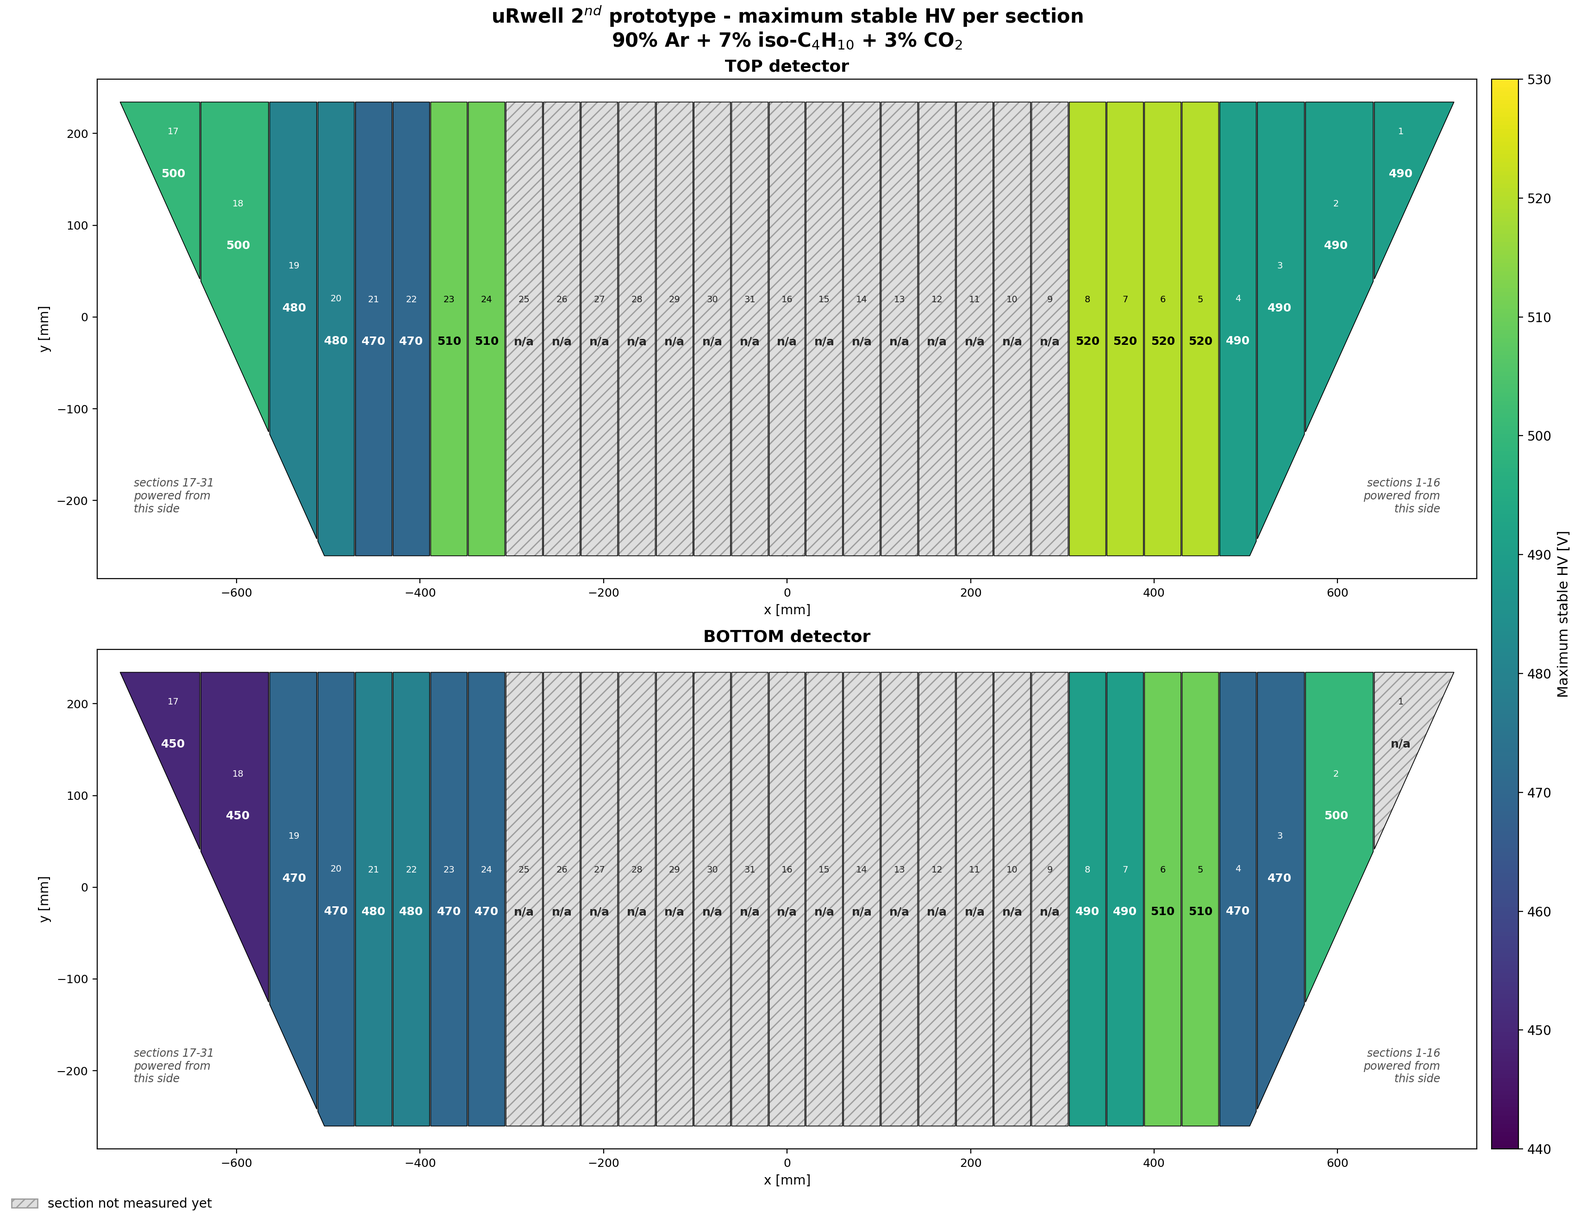
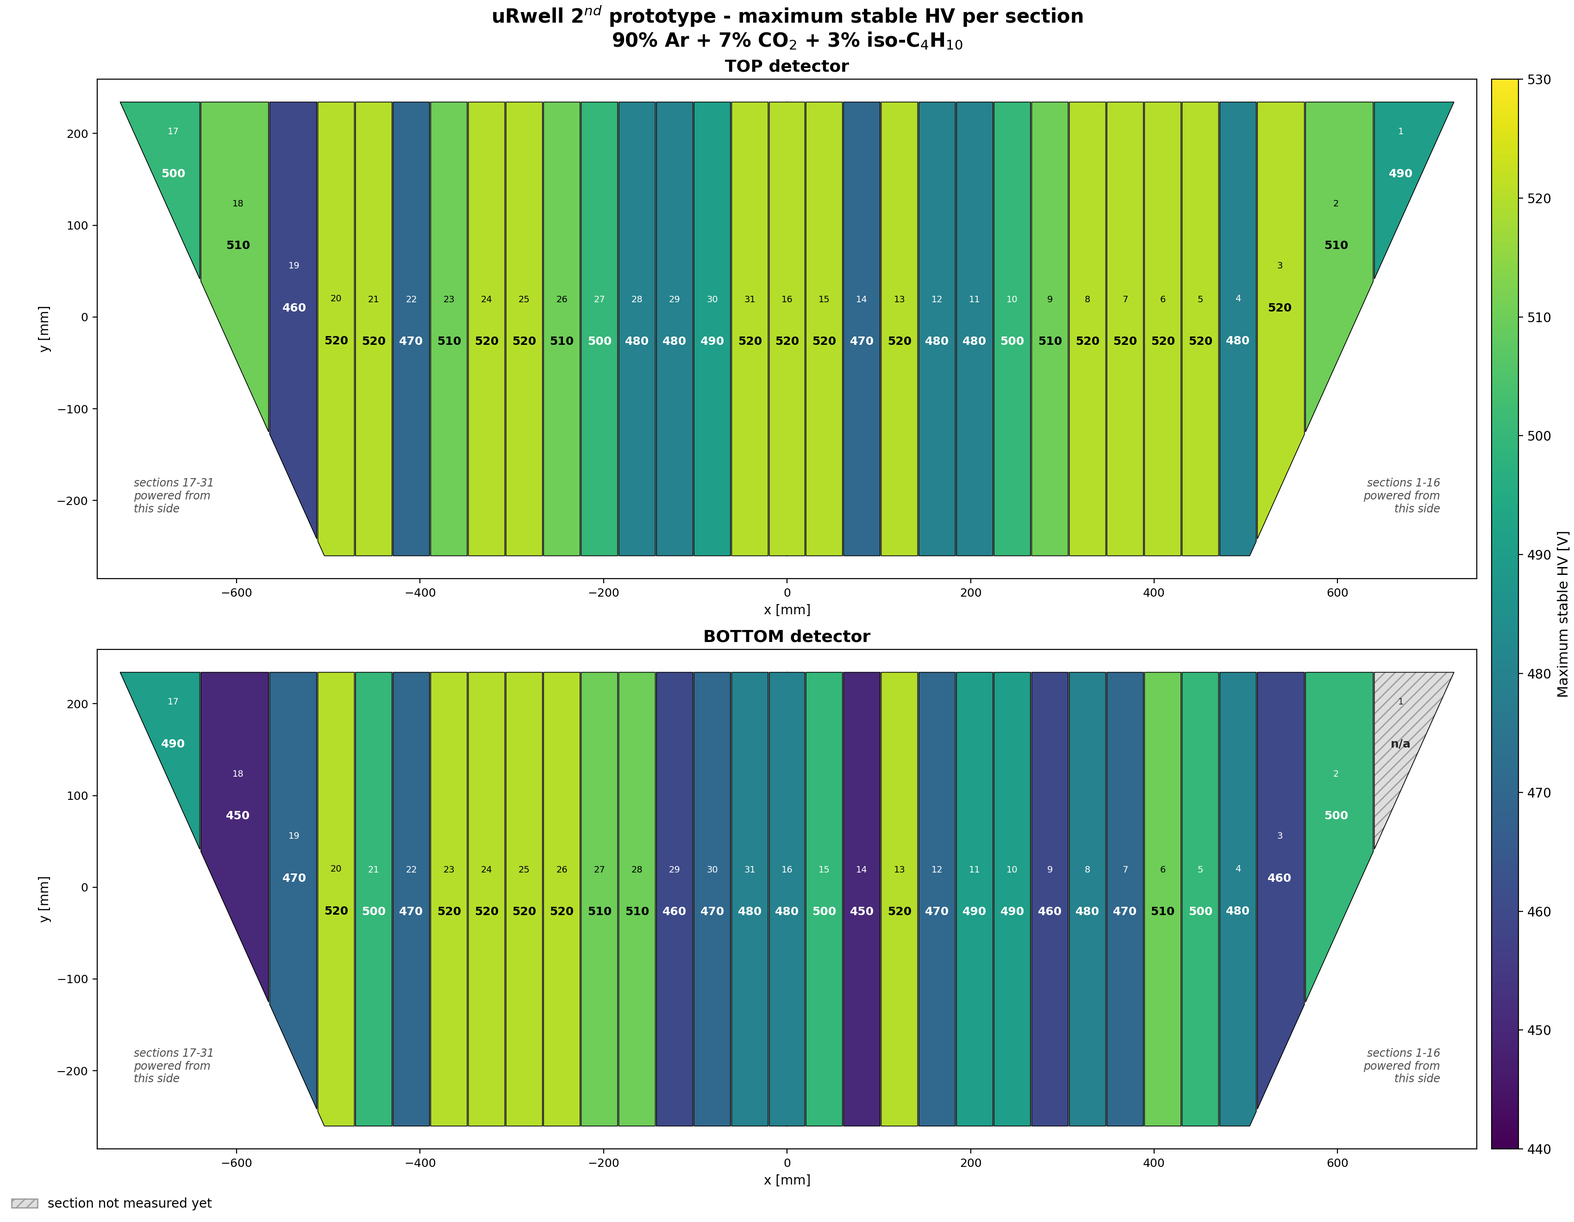
Add new UHP N2 HV section settings, trip limit column and --delta option
- TOP/BOT_HV_Sections_UHPN2.dat: new max stable HV values from the latest
  single-section settings, all N2 sections are now measured except BOTTOM 1.
  New optional third column with the HV trip limit (10 or 15 uA) each section
  was measured with.
- plot_HV_sections.py: read the trip limit and mark every section measured with
  a lower trip limit than the highest one of that gas with a small red 'x'
  (its value is only a lower limit).  New --delta option gives every gas a
  color scale of the same width so that colors can be compared between gases.
- README.md, CLAUDE.md: document the trip limit column and --delta, and update
  the status: N2 TOP 660-680 V, BOTTOM 640-680 V; still only with 10 uA are
  TOP 10, 18, 21, 22, 26 and BOTTOM 2, 24, 26.
- Doc/HVSection_MaxStableHV.png: refreshed snapshot of the Ar mixture figure.

diff --git a/misc/HV_Section_Quality/plot_HV_sections.py b/misc/HV_Section_Quality/plot_HV_sections.py
@@ -8,19 +8,30 @@ The measurements are done separately for every gas.  For each gas the maximum
 stable HV is read from two column wise text files, one for the TOP and one for
 the BOTTOM detector, named TOP_HV_Sections_<gas>.dat and BOT_HV_Sections_<gas>.dat:
 
-    # SECTION   MAX_STABLE_HV [V]
-    1           490
+    # SECTION   MAX_STABLE_HV [V]   TRIP_LIMIT [uA]
+    1           490                 15
     ...
-    9           -1        <-- negative value = section not measured yet
+    9           -1                        <-- negative value = section not measured yet
+
+The third column, the HV trip limit the section was measured with, is optional.
+A section measured with a lower trip limit than the highest one used for that gas
+may have tripped below what it can really hold, it gets a small red 'x'.
 
 The known gases are listed in GASES below, a new gas needs one more line there.
 Without --gas every gas whose two files exist is drawn, one figure per gas.  The
 figures are written into the 'Figs' sub directory, which is created if it does
 not exist yet, as HV_Section_MaxStableHV_<gas>.png/.pdf.
 
+Every gas gets its own color scale, by default from its lowest HV - 10 V up to its
+highest HV + 10 V.  With --delta the scale of every gas has the same width instead,
+from its highest HV down to highest HV - DELTA, so the colors of different gases can
+be compared.  --delta without a value takes the widest range of all gases.
+
 Usage:
     ./plot_HV_sections.py                                # all gases
     ./plot_HV_sections.py --gas UHPN2                    # only one gas
+    ./plot_HV_sections.py --delta                        # same color scale width for all gases
+    ./plot_HV_sections.py --delta 100                    # ... with a given width [V]
     ./plot_HV_sections.py --gas 90Ar_7CO2_3Iso --cmap RdYlGn --vmin 440 --vmax 530
 """
 
@@ -67,8 +78,10 @@ def read_geometry(fname):
 
 
 def read_hv(fname):
-    """Read 'section  max_stable_HV' pairs, negative HV means 'not measured'."""
-    hv = {}
+    """Read 'section  max_stable_HV  [trip_limit]' lines, negative HV means 'not
+    measured'.  Returns the HV and the trip limit dicts, the latter only holds the
+    sections for which the (optional) trip limit is given."""
+    hv, trip = {}, {}
     with open(fname) as f:
         for line in f:
             line = line.split("#")[0].strip()
@@ -76,12 +89,19 @@ def read_hv(fname):
                 continue
             w = line.split()
             hv[int(w[0])] = float(w[1])
-    return hv
+            if len(w) > 2:
+                trip[int(w[0])] = float(w[2])
+    return hv, trip
 
 
 def hv_files(gas):
     """The TOP and BOTTOM measurement files of the given gas."""
     return "TOP_HV_Sections_%s.dat" % gas, "BOT_HV_Sections_%s.dat" % gas
+
+
+def measured_hv(gas):
+    """All measured HV values of the given gas, TOP and BOTTOM together."""
+    return [v for f in hv_files(gas) for v in read_hv(f)[0].values() if v > 0.]
 
 
 # ----------------------------------------------------------------- small helpers
@@ -103,8 +123,18 @@ def text_color(rgba):
     return "black" if (0.299 * r + 0.587 * g + 0.114 * b) > 0.55 else "white"
 
 
+def delta_value(s):
+    """Value of --delta: 'auto' or a positive width of the color scale in V."""
+    if s == "auto":
+        return s
+    d = float(s)
+    if d <= 0.:
+        raise argparse.ArgumentTypeError("must be positive, got %s" % s)
+    return d
+
+
 # ------------------------------------------------------------------- the drawing
-def draw_detector(ax, sections, hv, cmap, norm, title, mirror=False):
+def draw_detector(ax, sections, hv, cmap, norm, title, mirror=False, low_trip=()):
     allx = np.concatenate([p[:, 0] for p in sections.values()])
     ally = np.concatenate([p[:, 1] for p in sections.values()])
     xlo, xhi, ylo, yhi = allx.min(), allx.max(), ally.min(), ally.max()
@@ -134,6 +164,14 @@ def draw_detector(ax, sections, hv, cmap, norm, title, mirror=False):
                 ha="center", va="center", fontsize=9., fontweight="bold",
                 color=tcol, zorder=3)
 
+        # measured with a low trip limit -> small red 'x' at the top of the section,
+        # centered on its top edge (the outer sections are clipped triangles)
+        if measured and n in low_trip:
+            ytop = poly[:, 1].max()
+            xtop = poly[poly[:, 1] > ytop - 1., 0]
+            ax.plot(0.5 * (xtop.min() + xtop.max()), ytop - 25., "x", color="red",
+                    markersize=8., markeredgewidth=2., zorder=3)
+
     # the bottom corners of the trapezoid are empty -> remind the reader there
     # on which side of the detector the sections are powered
     left, right = ("1-16", "17-31") if mirror else ("17-31", "1-16")
@@ -154,7 +192,7 @@ def draw_detector(ax, sections, hv, cmap, norm, title, mirror=False):
 def plot_gas(gas, sections, cmap, args):
     """One figure with both detectors, measured with the given gas."""
     top_file, bot_file = hv_files(gas)
-    hv_top, hv_bot = read_hv(top_file), read_hv(bot_file)
+    (hv_top, trip_top), (hv_bot, trip_bot) = read_hv(top_file), read_hv(bot_file)
 
     measured = [v for v in list(hv_top.values()) + list(hv_bot.values()) if v > 0.]
     if not measured:
@@ -162,16 +200,27 @@ def plot_gas(gas, sections, cmap, args):
         return
 
     # one common color scale for both detectors, so that they can be compared.
-    # Different gases need very different voltages, every gas gets its own scale
-    vmin = args.vmin if args.vmin is not None else min(measured) - 10.
-    vmax = args.vmax if args.vmax is not None else max(measured) + 10.
+    # Different gases need very different voltages, every gas gets its own scale,
+    # with --delta all of them have the same width, from their maximum HV downwards
+    if args.delta is not None:
+        vmax = max(measured)
+        vmin = vmax - args.delta
+    else:
+        vmin = args.vmin if args.vmin is not None else min(measured) - 10.
+        vmax = args.vmax if args.vmax is not None else max(measured) + 10.
     norm = Normalize(vmin=vmin, vmax=vmax)
+
+    # a section measured with a lower trip limit than the highest one used for this
+    # gas may have tripped before reaching the HV it can really hold
+    max_trip = max(list(trip_top.values()) + list(trip_bot.values()), default=0.)
+    low_top = sorted(n for n, t in trip_top.items() if t < max_trip and hv_top[n] > 0.)
+    low_bot = sorted(n for n, t in trip_bot.items() if t < max_trip and hv_bot[n] > 0.)
 
     # the active area is 1453 x 495 mm^2, keep the true aspect ratio of the
     # detector and size the canvas such that no space is wasted
     fig, axes = plt.subplots(2, 1, figsize=(17., 13.2), layout="constrained")
-    draw_detector(axes[0], sections, hv_top, cmap, norm, "TOP detector", args.mirror)
-    draw_detector(axes[1], sections, hv_bot, cmap, norm, "BOTTOM detector", args.mirror)
+    draw_detector(axes[0], sections, hv_top, cmap, norm, "TOP detector", args.mirror, low_top)
+    draw_detector(axes[1], sections, hv_bot, cmap, norm, "BOTTOM detector", args.mirror, low_bot)
 
     fig.suptitle("uRwell 2$^{nd}$ prototype - maximum stable HV per section\n%s"
                  % GASES[gas], fontsize=15, fontweight="bold")
@@ -197,6 +246,9 @@ def plot_gas(gas, sections, cmap, args):
     n_bot = sum(1 for v in hv_bot.values() if v > 0.)
     print("%s: measured sections TOP %d/31, BOTTOM %d/31   (color scale %.0f - %.0f V)"
           % (gas, n_top, n_bot, vmin, vmax))
+    if low_top or low_bot:
+        print("%s: measured with a trip limit below %g uA (red 'x'): TOP %s, BOTTOM %s"
+              % (gas, max_trip, low_top or "-", low_bot or "-"))
 
 
 def main():
@@ -214,10 +266,19 @@ def main():
                     help="lower end of the color scale [V], applies to every gas drawn")
     ap.add_argument("--vmax", type=float, default=None,
                     help="upper end of the color scale [V], applies to every gas drawn")
+    ap.add_argument("--delta", nargs="?", const="auto", default=None, type=delta_value,
+                    metavar="DELTA",
+                    help="same width of the color scale [V] for every gas, from the "
+                         "maximum HV of the gas down to maximum - DELTA.  Without a "
+                         "value the widest range (max - min + 10 V) of all gases is "
+                         "used, so that no gas gets clipped")
     ap.add_argument("--mirror", action="store_true",
                     help="mirror the detector in x, i.e. draw section 1 on the left "
                          "(use it if you look at the chamber from the other side)")
     args = ap.parse_args()
+
+    if args.delta is not None and (args.vmin is not None or args.vmax is not None):
+        ap.error("--delta can not be combined with --vmin/--vmax")
 
     if not os.path.exists(args.geometry):
         sys.exit("ERROR: can not find '%s'" % args.geometry)
@@ -236,6 +297,18 @@ def main():
     if not gases:
         sys.exit("ERROR: no measurement files found for any of the gases %s"
                  % ", ".join(GASES))
+
+    # --delta without a value: the widest range of all gases with measurements, drawn
+    # or not, so that a figure does not depend on which other gases are drawn
+    if args.delta == "auto":
+        ranges = []
+        for gas in GASES:
+            if all(os.path.exists(f) for f in hv_files(gas)):
+                values = measured_hv(gas)
+                if values:
+                    ranges.append(max(values) - min(values) + 10.)
+        args.delta = max(ranges, default=10.)
+        print("Same color scale width for every gas: %.0f V" % args.delta)
 
     sections = read_geometry(args.geometry)
     if args.mirror:

diff --git a/misc/HV_Section_Quality/CLAUDE.md b/misc/HV_Section_Quality/CLAUDE.md
@@ -13,8 +13,8 @@ two in sync when something here changes.
 
 | file | what it is |
 |------|------------|
-| `TOP_HV_Sections_<gas>.dat` | measured max stable HV, TOP detector, one file per gas |
-| `BOT_HV_Sections_<gas>.dat` | measured max stable HV, BOTTOM detector, one file per gas |
+| `TOP_HV_Sections_<gas>.dat` | measured max stable HV (+ trip limit), TOP detector, one file per gas |
+| `BOT_HV_Sections_<gas>.dat` | measured max stable HV (+ trip limit), BOTTOM detector, one file per gas |
 | `uRwell_HV_section_geometry.dat` | polygons of the 31 sections, generated (see below) |
 | `extract_section_geometry.py` | CAD (DXF) -> `uRwell_HV_section_geometry.dat` |
 | `plot_HV_sections.py` | the plot: both detectors, color coded by max stable HV, one figure per gas |
@@ -41,8 +41,16 @@ added to the `install(FILES ...)` list in `CMakeLists.txt`.
   which had the CO2 and iso fractions swapped in the name), and a glob would
   silently plot them as an extra gas.
 * TOP and BOTTOM share one color scale, but every gas gets its own: N2 needs
-  ~150 V more than the Ar mixture, a common scale would flatten both.
+  ~150 V more than the Ar mixture, a common scale would flatten both.  By default
+  it runs from the lowest HV - 10 V to the highest HV + 10 V of the gas.
   `--vmin`/`--vmax` apply to every gas drawn, so use them together with `--gas`.
+* `--delta DELTA` gives every gas a scale of the same width instead, so that the
+  colors of different gases can be compared: from the highest HV of the gas (no
+  +10 V margin, the highest sections get the top color) down to highest - DELTA.
+  `--delta` without a value takes the widest range (highest - lowest + 10 V) of all
+  gases that have files, drawn or not, so no gas is clipped and a figure does not
+  depend on `--gas` (80 V as of 2026-10-28, set by the Ar mixture).  It can not be
+  combined with `--vmin`/`--vmax`.
 
 ## Where things are edited (easy to trip over)
 
@@ -65,15 +73,49 @@ refreshed by hand when the measurements change:
 
 ## Data file format
 
-Two whitespace separated columns, `#` starts a comment (also at the end of a line,
+Whitespace separated columns, `#` starts a comment (also at the end of a line,
 which is used to record observations about individual sections):
 
 ```
-# SECTION	MAX_STABLE_HV [V]
-1		490
-9		-1     <- negative = not measured yet, drawn hatched as 'n/a'
-20		470  # held 510 for ~30 min, later did not hold 480 for long
+# SECTION	MAX_STABLE_HV [V]	TRIP_LIMIT [uA]
+1		490		15
+9		-1             <- negative = not measured yet, drawn hatched as 'n/a'
+20		470		10  # held 510 for ~30 min, later did not hold 480 for long
 ```
+
+The third column, the HV trip limit the section was measured with, is optional (the
+Ar files do not have it, a not measured section leaves it empty).
+
+## HV trip limit (red 'x')
+
+During the N2 scan the trip limit was raised from 10 uA to 15 uA on 2026-09-25, the
+first setting with 15 uA is setting #6.  With 10 uA a section can trip below the HV
+it could hold, so its value is only a lower limit.  `plot_HV_sections.py` puts a
+small red 'x' at the top of every measured section whose trip limit is lower than
+the highest one in the two files of that gas (no legend entry, deliberately).
+
+Which section had which limit comes from the lab log `EEL_Runs.xlsx` (not in git),
+tab "HV settings " (with a trailing space), N2 block from row 29 on:
+
+* Settings #1-#5 (rows 30-34, 10 uA) measured pairs: TOP 1-10 and 17-26, BOTTOM
+  2-10 and 17-26.
+* From setting #9 (row 38) sections are measured one by one, all with 15 uA.  A
+  section of a 10 uA pair that was re-measured there is 15 uA, its partner stays
+  10 uA unless it was re-measured too (e.g. BOTTOM 3 & 4: 640 V in #2, then BOTTOM 3
+  alone 670 V in #10 -> 3 became 15 uA, 4 stayed 10 uA until it was re-measured
+  alone later, 680 V with 15 uA).
+* Not counted as re-measurements: setting #16 TOP right (section 8, not connected)
+  and setting #17 (60 V on every channel, not a max HV measurement).
+
+Result as of 2026-11-02, still 10 uA: TOP 10, 18, 21, 22, 26 and BOTTOM 2, 24, 26
+(TOP 5, 6, 8 and BOTTOM 4, 10, 20, 22 were re-measured with 15 uA in the meantime).
+When one of them is re-measured, update its HV **and** set its trip limit to 15 in
+the `.dat` file, the 'x' then disappears.
+
+The same kind of trap exists for the pair measurements in general: when a section
+is re-measured alone, its old pair value has to be replaced (BOTTOM 14 with the Ar
+mixture kept the 440 V of the 13 & 14 pair, setting #7, although it held 450 V
+alone in setting #10 -- fixed in commit b61dce2).
 
 ## Geometry
 
@@ -129,6 +171,8 @@ built in `build_sections()` of `extract_section_geometry.py`.
 ```bash
 ./plot_HV_sections.py                                  # every gas -> Figs/HV_Section_MaxStableHV_<gas>.png/.pdf
 ./plot_HV_sections.py --gas UHPN2                      # only the given gas(es)
+./plot_HV_sections.py --delta                          # same color scale width for every gas (widest range)
+./plot_HV_sections.py --delta 100                      # ... with a given width [V]
 ./plot_HV_sections.py --gas 90Ar_7CO2_3Iso --output-dir SomeOtherDir --cmap RdYlGn --vmin 440 --vmax 530
 ./extract_section_geometry.py [dxf] [out]              # only if the CAD changed
 ```
@@ -137,14 +181,15 @@ Needs `numpy` + `matplotlib` only (Agg backend, no display required).
 
 ## Status / next steps
 
-As of 2026-09-28:
+As of 2026-11-02:
 
 * 90% Ar + 7% CO2 + 3% iso-C4H10: done.  All sections measured except BOTTOM
   section 1 (initially entered as 500 V, later set back to -1).  TOP 460-520 V,
-  BOTTOM 440-520 V.
-* UHP N2: TOP 640-670 V, BOTTOM 630-670 V.  Still to do on both detectors:
-  sections **13-16** and **29-31**, plus BOTTOM section 1.  So far measured in pairs
-  of adjacent sections sharing the same value (1&2, 3&4, ... , 17&18, ...).
+  BOTTOM 450-520 V.
+* UHP N2: all sections measured except BOTTOM section 1.  TOP 660-680 V, BOTTOM
+  640-680 V.  Settings #1-#8 measured pairs of adjacent sections, from #9 on single
+  sections.  Still only with the 10 uA trip limit: the 8 sections listed in
+  "HV trip limit" above.
 
 To add new measurements, edit the `.dat` files in the repository, re-run
 `plot_HV_sections.py` (or `make install` and run it in the install directory), and

diff --git a/README.md b/README.md
@@ -713,24 +713,35 @@ measurements together with the code that draws them on the real detector geometr
 
 ![Maximum stable HV per HV section, UHP N₂](Doc/HVSection_MaxStableHV_UHPN2.png)
 
-**Measurements** are done separately for every gas and stored in two-column text files, one per
+**Measurements** are done separately for every gas and stored in column wise text files, one per
 detector and gas, `TOP_HV_Sections_<gas>.dat` and `BOT_HV_Sections_<gas>.dat`, where `<gas>` is
 `90Ar_7CO2_3Iso` (90% Ar + 7% CO₂ + 3% iso-C₄H₁₀) or `UHPN2` (ultra high purity N₂). A negative value
-means the section has not been measured yet. A `#` starts a comment, also at the end of a line,
-which is used to record observations about individual sections:
+means the section has not been measured yet. The optional third column is the HV trip limit the
+section was measured with. A `#` starts a comment, also at the end of a line, which is used to record
+observations about individual sections:
 
 ```
-# SECTION	MAX_STABLE_HV [V]
-1		490
+# SECTION	MAX_STABLE_HV [V]	TRIP_LIMIT [uA]
+1		490		15
 9		-1
-20		470  # held 510 for ~30 min, later did not hold 480 for long
+20		470		10  # held 510 for ~30 min, later did not hold 480 for long
 ```
+
+**Trip limit:** during the N₂ scan the trip limit was raised from 10 µA to 15 µA on 2026-09-25
+(from setting #6 on, see the "HV settings" tab of the lab log `EEL_Runs.xlsx`). With 10 µA a section
+can trip below the HV it could hold, so its value is only a lower limit. Every measured section whose
+trip limit is lower than the highest one used for that gas gets a small red ✗ at its top. With N₂ these
+are TOP 10, 18, 21, 22, 26 and BOTTOM 2, 24, 26: sections of the 10 µA pairs (settings #1–#5) that
+were not re-measured individually later (settings #9 on, 15 µA). Once such a section is re-measured,
+set its trip limit to 15 together with the new HV value.
 
 **Run:**
 ```bash
 cd misc/HV_Section_Quality
 ./plot_HV_sections.py                    # every gas -> Figs/HV_Section_MaxStableHV_<gas>.{png,pdf}
 ./plot_HV_sections.py --gas UHPN2        # only the given gas(es)
+./plot_HV_sections.py --delta            # same color scale width for every gas
+./plot_HV_sections.py --delta 100        # ... with a given width [V]
 ./plot_HV_sections.py --gas 90Ar_7CO2_3Iso --cmap RdYlGn --vmin 440 --vmax 530
 ```
 
@@ -738,13 +749,17 @@ Without `--gas` one figure is drawn for every gas whose two files exist, a gas w
 skipped. The figures are written into the `Figs/` sub directory, which is created if it does not
 exist yet. Both detectors are drawn to scale and share one color scale, so that they can be compared
 directly. Every gas gets its own color scale, because the voltages differ by ~150 V between the
-gases (`--vmin`/`--vmax` apply to every gas drawn, so they are mostly useful together with `--gas`).
-Sections that are not measured yet are drawn hatched and labelled `n/a`. Further options are
-`--geometry`, `--output-dir`, `--out` and `--mirror` (the latter flips the detector in x, for the case
-it is viewed from the other side). Only `numpy` and `matplotlib` are needed. To add new measurements,
-edit the `.dat` files and re-run the script. A new gas needs its two `.dat` files plus one line in the
-`GASES` table at the top of `plot_HV_sections.py` (the name used in the file names and the gas as it
-is written in the figure title).
+gases. By default it runs from the lowest HV − 10 V to the highest HV + 10 V of the gas
+(`--vmin`/`--vmax` apply to every gas drawn, so they are mostly useful together with `--gas`).
+To compare the colors of different gases, `--delta DELTA` gives every gas a scale of the same width,
+from the highest HV of the gas down to highest − DELTA. `--delta` without a value takes the widest
+range (highest − lowest + 10 V) of all gases, so that no gas is clipped; it can not be combined with
+`--vmin`/`--vmax`. Sections that are not measured yet are drawn hatched and labelled `n/a`. Further
+options are `--geometry`, `--output-dir`, `--out` and `--mirror` (the latter flips the detector in x,
+for the case it is viewed from the other side). Only `numpy` and `matplotlib` are needed. To add new
+measurements, edit the `.dat` files and re-run the script. A new gas needs its two `.dat` files plus
+one line in the `GASES` table at the top of `plot_HV_sections.py` (the name used in the file names and
+the gas as it is written in the figure title).
 
 **Section geometry** comes from the CAD export `DFS3381_activearea.dxf`, which is *not* part of this
 repository. `extract_section_geometry.py` reads it and writes `uRwell_HV_section_geometry.dat`, which
@@ -764,9 +779,9 @@ x:   -727 -602 -538     -81 -40 |  0  +40  +81      +602 +727   [mm]
 
 **Status:**
 - 90% Ar + 7% CO₂ + 3% iso-C₄H₁₀: all sections are measured except section 1 of
-  the BOTTOM detector, TOP 460–520 V, BOTTOM 440–520 V.
-- UHP N₂: TOP 640–670 V, BOTTOM 630–670 V. Sections 13–16 and 29–31 are still to be done on both
-  detectors, and section 1 on the BOTTOM one.
+  the BOTTOM detector, TOP 460–520 V, BOTTOM 450–520 V.
+- UHP N₂: all sections are measured except section 1 of the BOTTOM detector, TOP 660–680 V,
+  BOTTOM 640–680 V. 8 sections are measured only with the 10 µA trip limit (red ✗, see above).
 
 ---
 
